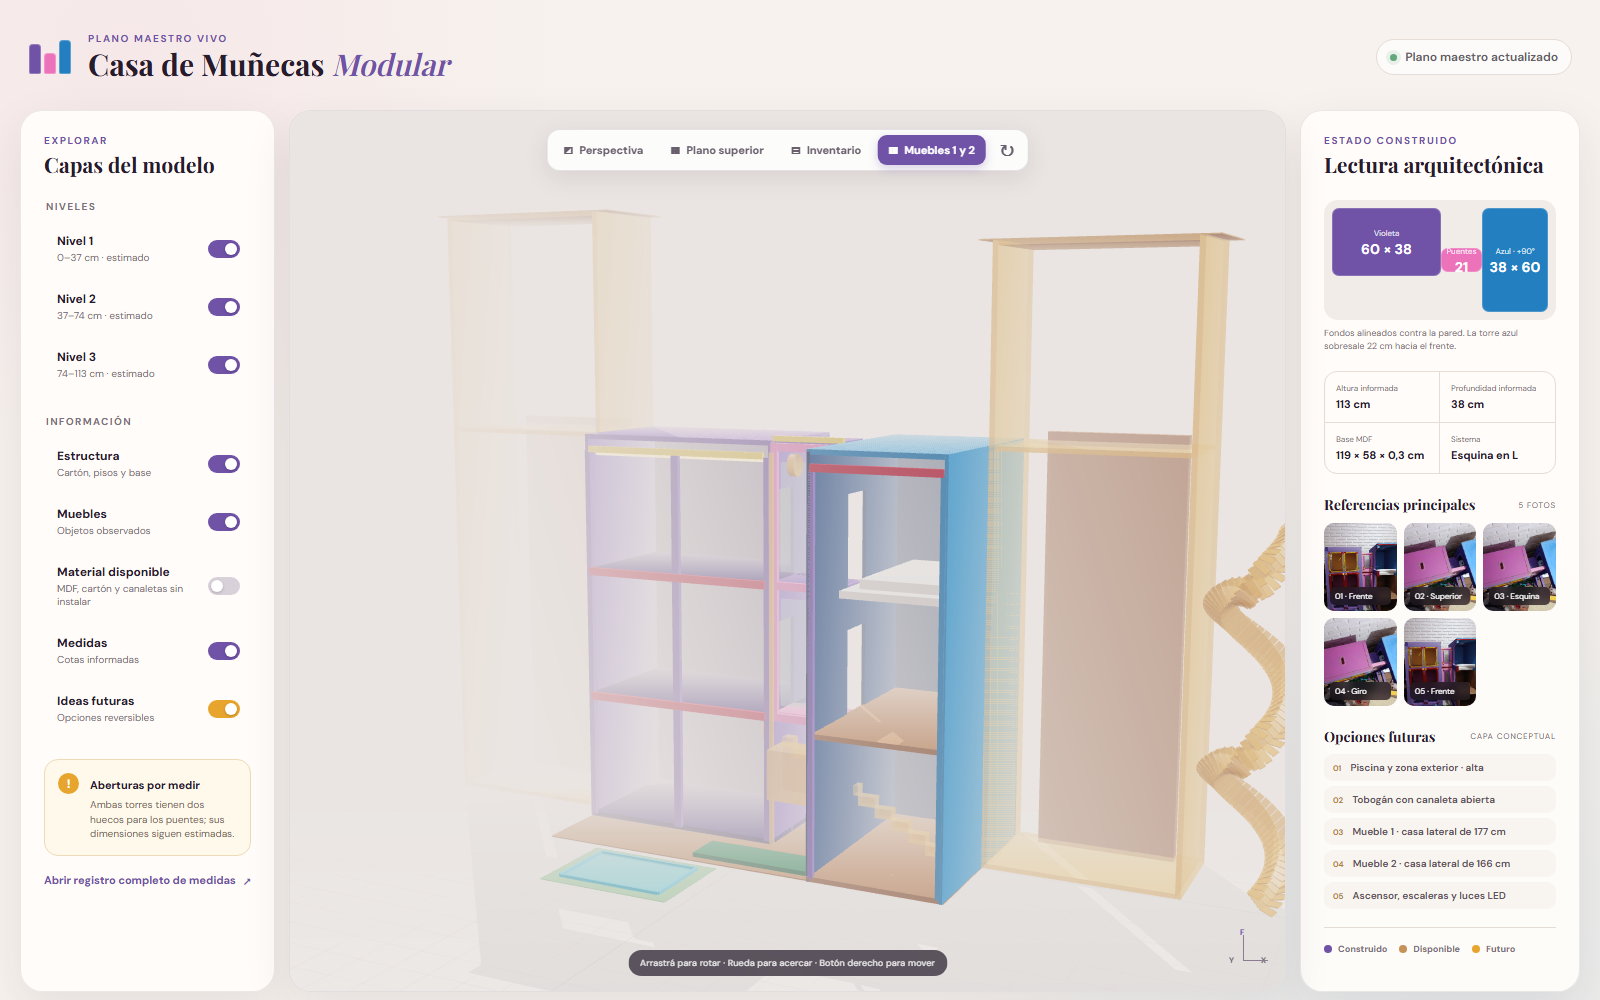
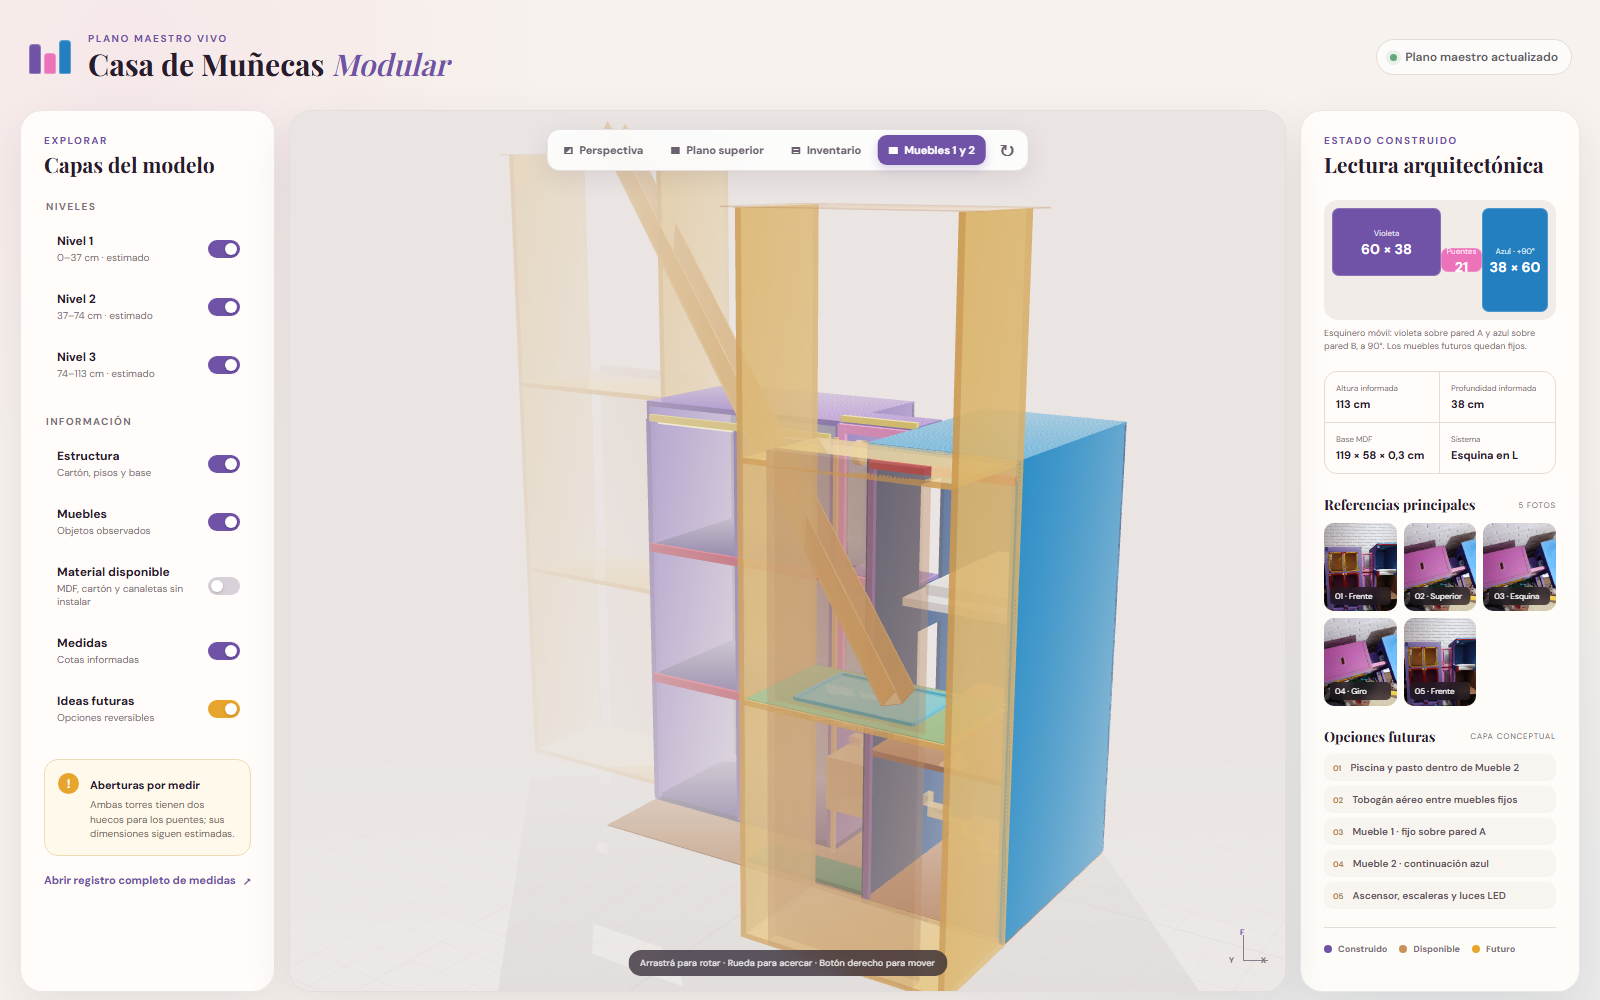
Reorientar muebles fijos alrededor del esquinero móvil

Changed region(s): [[0.3125, 0.155, 0.8125, 0.992], [0.875, 0.744, 0.9375, 0.868], [0.8438, 0.31, 0.9375, 0.372]]

diff --git a/viewer/app.js b/viewer/app.js
@@ -160,6 +160,25 @@ function buildOpenChannel(element, material) {
   return registerComposite(group, element);
 }
 
+function buildOpenChannelBetween(element, material) {
+  const group = new THREE.Group();
+  const thickness = element.profile.displayThickness;
+  const width = element.profile.base;
+  const sideHeight = element.profile.sideHeight;
+  const bottom = new THREE.Mesh(new THREE.BoxGeometry(element.length, thickness, width), material);
+  bottom.position.y = thickness / 2;
+  group.add(bottom);
+  for (const side of [-1, 1]) {
+    const wall = new THREE.Mesh(new THREE.BoxGeometry(element.length, sideHeight, thickness), material);
+    wall.position.set(0, sideHeight / 2, side * (width / 2 - thickness / 2));
+    group.add(wall);
+  }
+  const object = registerComposite(group, element);
+  const direction = new THREE.Vector3(...element.end).sub(new THREE.Vector3(...element.start)).normalize();
+  object.quaternion.setFromUnitVectors(new THREE.Vector3(1, 0, 0), direction);
+  return object;
+}
+
 function buildOpenChannelHelix(element, material) {
   const group = new THREE.Group();
   const segments = 88;
@@ -328,6 +347,7 @@ function populate(data) {
     const material = materials[element.material];
     let object;
     if (element.type === "openChannel") object = buildOpenChannel(element, material);
+    else if (element.type === "openChannelBetween") object = buildOpenChannelBetween(element, material);
     else if (element.type === "openChannelHelix") object = buildOpenChannelHelix(element, material);
     else if (element.type === "stack") object = buildStack(element, material);
     else if (element.type === "poolOutline") object = buildPoolOutline(element, material);

diff --git a/viewer/index.html b/viewer/index.html
@@ -95,7 +95,7 @@
             <div class="plan-module core"><span>Puentes</span><b>21</b></div>
             <div class="plan-module right"><span>Azul · +90°</span><b>38 × 60</b></div>
           </div>
-          <p class="plan-note">Fondos alineados contra la pared. La torre azul sobresale 22 cm hacia el frente.</p>
+          <p class="plan-note">Esquinero móvil: violeta sobre pared A y azul sobre pared B, a 90°. Los muebles futuros quedan fijos.</p>
 
           <dl class="facts">
             <div><dt>Altura informada</dt><dd>113 cm</dd></div>
@@ -118,10 +118,10 @@
           <div class="future-list">
             <div class="section-row"><h3>Opciones futuras</h3><span>Capa conceptual</span></div>
             <ul>
-              <li><span>01</span> Piscina y zona exterior · alta</li>
-              <li><span>02</span> Tobogán con canaleta abierta</li>
-              <li><span>03</span> Mueble 1 · casa lateral de 177 cm</li>
-              <li><span>04</span> Mueble 2 · casa lateral de 166 cm</li>
+              <li><span>01</span> Piscina y pasto dentro de Mueble 2</li>
+              <li><span>02</span> Tobogán aéreo entre muebles fijos</li>
+              <li><span>03</span> Mueble 1 · fijo sobre pared A</li>
+              <li><span>04</span> Mueble 2 · continuación azul</li>
               <li><span>05</span> Ascensor, escaleras y luces LED</li>
             </ul>
           </div>

diff --git a/ideas.md b/ideas.md
@@ -4,20 +4,22 @@ Este archivo conserva todas las ideas del proyecto, incluso las que todavía no 
 
 ## Prioridad alta
 
-### Piscina y zona exterior
+### Piscina y jardín dentro de Mueble 2
 
 - Piscina plástica para muñecas de aproximadamente 30 × 20 cm.
 - Preferencia: comprar una opción accesible antes que fabricarla, si el costo y la escala resultan adecuados.
-- Asociar el pasto artificial disponible como patio o jardín.
-- Mantener el conjunto desmontable y sin pegarlo a las cajas actuales.
-- Pendiente: medir el espacio libre real de la base y cualquier futura extensión exterior.
+- Integrar piscina y pasto artificial sobre un estante reforzado de Mueble 2; no ocupar el piso frente a la casa móvil.
+- Mantener la piscina desmontable para limpieza y proteger el MDF contra humedad.
+- Pendiente: medir el pasto, el peso de la piscina llena y la capacidad del estante antes de construir.
 
-### Tobogán exterior con canaleta abierta
+### Tobogán aéreo entre los dos muebles fijos
 
 - Reutilizar las canaletas PVC de 190 y 60 cm, ambas con perfil abierto: base de 6 cm y laterales de 6 cm.
 - No tratarlas como tubos cerrados.
-- Evaluar recorrido recto, curvo o por tramos, con apoyos independientes.
-- No cortar hasta definir recorrido, radios posibles, altura de salida y sistema desmontable.
+- Propuesta llamativa: la canaleta de 190 cm cruza en diagonal desde el nivel superior de Mueble 1 hasta el nivel de piscina de Mueble 2.
+- Sus únicos apoyos deben estar en los muebles fijos. No puede tocar, perforar ni depender de la casa de cartón móvil.
+- Reservar la canaleta de 60 cm para una entrada, llegada o segundo tramo después de una prueba a escala real.
+- No cortar ni curvar hasta comprobar la distancia real entre muebles, la rigidez del PVC, la pendiente y las protecciones laterales.
 
 ## Desarrollo modular
 
@@ -26,23 +28,22 @@ Este archivo conserva todas las ideas del proyecto, incluso las que todavía no 
 - Ubicación conceptual: lado izquierdo de la torre violeta, compartiendo la alineación posterior.
 - Altura propuesta: 177 cm, mayor que los 113 cm de la casa de cartón, porque aprovecha enteras las dos placas de 30 × 177 × 1,5 cm como laterales.
 - Ancho exterior derivado: 53,3 cm, usando placas de 50,3 cm entre dos laterales de 1,5 cm. Profundidad: 30 cm.
-- Tres placas de 30 × 50,3 × 1,3 cm formarían base, piso a la altura aproximada del techo actual y piso superior.
+- Tres placas de 30 × 50,3 × 1,3 cm formarían base, estante inferior y estante alineado aproximadamente con el techo actual.
 - Una tapa de cartón de 116 × 38 × 3 cm se conservaría entera como respaldo inferior centrado.
 - Una placa fina de 30 × 61 × 0,3 cm se usaría entera como cubierta o marquesina.
-- Programa sugerido: garaje o guardado abajo; habitación vinculada a la casa a 113 cm; terraza, observatorio o salida del tobogán arriba.
-- La canaleta de 190 cm podría ensayarse como bajada exterior desde este sector y la de 60 cm como tramo de entrada o llegada; el recorrido depende del espacio lateral real y de cuánto admitan curvarse.
+- Programa sugerido: garaje o guardado abajo; habitación intermedia; terraza, observatorio o salida del tobogán arriba.
 
 ### Mueble 2 — nueva casa lateral de 166 cm
 
-- Ubicación conceptual: lado derecho de la torre azul, compartiendo la alineación posterior.
+- Ubicación conceptual: continuación frontal de la torre azul sobre la segunda pared de la esquina. Sus aberturas miran hacia las aberturas azules.
 - Altura propuesta: 166 cm, también mayor que la casa actual, usando enteras las dos placas de 30 × 166 × 1,5 cm como laterales.
 - Ancho exterior derivado: 53,3 cm. Profundidad: 30 cm.
-- Las otras tres placas de 30 × 50,3 × 1,3 cm formarían base, piso conectado visualmente con el techo actual y piso superior.
+- Las otras tres placas de 30 × 50,3 × 1,3 cm formarían base, estante para piscina/jardín y estante superior.
 - La segunda tapa de cartón se conservaría entera como respaldo inferior.
 - La segunda placa fina de 30 × 61 × 0,3 cm funcionaría como cubierta o balcón superior.
-- Programa sugerido: zona de piscina y vestuario abajo; habitaciones en el nivel medio; terraza, jardín alto o sala de luces arriba.
+- Programa sugerido: guardado abajo; piscina y jardín artificial sobre el primer estante; habitaciones o sala de luces arriba.
 
-Los dos muebles son parte arquitectónica de la casa, aunque deben sostenerse por sí mismos y no colgar del cartón. Antes de construirlos hay que medir el lugar disponible y definir anclajes antivuelco.
+Los dos muebles son partes fijas de la casa arquitectónica y se anclan a pared o piso. La estructura de cartón permanece intacta y móvil: debe poder retirarse sin desmontar muebles, piscina ni tobogán.
 
 ### Tapas originales de cartón
 

diff --git a/docs/decisiones.md b/docs/decisiones.md
@@ -116,3 +116,27 @@
 - **Decisión:** Reservar el nivel de 113 cm como vínculo arquitectónico con la casa actual. Proponer garaje/guardado y habitación para Mueble 1; piscina/vestuario y habitaciones para Mueble 2; usar los niveles superiores para terraza, jardín alto, observatorio o salida de tobogán.
 - **Motivo:** Crea continuidad con la casa existente y aprovecha la nueva altura sin modificarla.
 - **Consecuencia:** Los usos pueden cambiar; las posiciones de pisos sí responden al material disponible y deben validarse antes de cortar o perforar.
+
+## D-016 — Dos paredes perpendiculares y cartón móvil
+
+- **Fecha:** 2026-07-23
+- **Estado:** Confirmada por el usuario
+- **Decisión:** Interpretar la implantación como esquina de habitación: violeta sobre pared A y lateral exterior azul sobre pared B a 90°. La estructura de cartón queda intacta y debe poder retirarse.
+- **Motivo:** El conjunto de cartón es un esquinero móvil, no una estructura para recibir cargas permanentes.
+- **Consecuencia:** Los muebles se fijan a pared o piso y requieren una junta de encuentro desmontable con el cartón.
+
+## D-017 — Mueble 2 continúa la torre azul
+
+- **Fecha:** 2026-07-23
+- **Estado:** Conceptual, orientación confirmada
+- **Decisión:** Mueble 2 deja de ser lateral y se coloca delante de la torre azul, siguiendo la pared B. Sus aberturas miran hacia las aberturas azules.
+- **Motivo:** Debe leerse como continuación de la casa de muñecas y no como un volumen paralelo agregado.
+- **Consecuencia:** Mueble 2 se centra provisionalmente en X = 33,35 cm, ocupa Z = 30–60 cm y alinea su lateral derecho con la pared B. La holgura final debe medirse.
+
+## D-018 — Estantes habitables, piscina elevada y tobogán independiente
+
+- **Fecha:** 2026-07-23
+- **Estado:** Propuesta para verificar
+- **Decisión:** Usar las tres placas de 50,3 cm de cada mueble como base y dos estantes. Colocar piscina y pasto en el primer estante de Mueble 2. Probar la canaleta de 190 cm como tobogán aéreo entre ambos muebles fijos.
+- **Motivo:** Libera el piso, crea más habitaciones y convierte el tobogán en una pieza protagonista.
+- **Consecuencia:** Hay que calcular carga y protección contra agua del estante, medir el recorrido real y diseñar apoyos solo en MDF. La canaleta de 60 cm queda reservada para entrada o llegada.

diff --git a/docs/proyecto.md b/docs/proyecto.md
@@ -10,7 +10,7 @@ Primera digitalización registrada el 18 de julio de 2026 a partir de dos fotogr
 
 - Torre izquierda violeta: tres niveles, dos vanos por nivel, fachada decorada y cerramientos laterales/superior.
 - Torre derecha azul: caja del mismo tamaño girada 90° en planta; el frente grande está abierto hacia el frente común de la casa y la cara de unión con el núcleo está cerrada salvo por aberturas pequeñas para los puentes.
-- Alineación: las caras posteriores de ambas cajas coinciden contra la pared. La torre azul, con 60 cm sobre el eje de profundidad, sobresale 22 cm respecto del frente violeta de 38 cm.
+- Implantación en la habitación: el conjunto de cartón ocupa una esquina. La torre violeta da a la pared A y el lateral exterior azul da a la pared B, perpendicular. La geometría de cartón no cambia.
 - La pared violeta que recibe los puentes está cerrada y posee dos aberturas pequeñas equivalentes a las de la pared azul.
 - Núcleo central rosado: bastidor frontal y puentes estrechos que salvan los 21 cm entre las cajas.
 - Base de MDF con una zona de jardín decorativo al frente.
@@ -19,6 +19,8 @@ Primera digitalización registrada el 18 de julio de 2026 a partir de dos fotogr
 El modelo 3D inicial representa esta organización sin rediseñarla. Las ampliaciones opcionales están separadas en una capa futura y se muestran apagadas por defecto.
 
 Desde el 22 de julio de 2026 el visor distingue tres estados: estructura actual, materiales disponibles todavía sin instalar e ideas futuras conceptuales. La base construida se registra con 3 mm de espesor. Ningún material inventariado se considera agregado a la casa.
+
+La estructura de cartón será móvil y podrá retirarse de la esquina. Mueble 1 y Mueble 2 serán instalaciones fijas, autoportantes y ancladas sin transferir cargas al cartón.
 
 ## Cronología
 
@@ -46,6 +48,15 @@ Desde el 22 de julio de 2026 el visor distingue tres estados: estructura actual,
 - El visor separa estructura construida, material disponible y ampliaciones futuras.
 - Se definieron Mueble 1 y Mueble 2 como futuras casas laterales de 177 y 166 cm, utilizando las placas largas enteras y repartiendo las seis placas de 50,3 cm.
 
+### 2026-07-23 — Esquina fija y casa móvil
+
+- Se confirmó que la parte violeta da a una pared y la azul a la pared perpendicular.
+- Mueble 1 conserva su posición junto a la torre violeta.
+- Mueble 2 continúa hacia adelante desde la torre azul; sus vanos quedan enfrentados con los vanos azules.
+- Ambos muebles incorporan estantes. Piscina y pasto pasan al primer estante de Mueble 2.
+- Se reemplazó el tobogán helicoidal por una propuesta aérea con la canaleta abierta de 190 cm entre los dos muebles fijos.
+- El cartón sigue intacto y móvil; muebles, piscina y tobogán no dependen de él.
+
 ## Ideas futuras
 
 - Ascensor manual con polea y cuerda, preferentemente adosado al núcleo o lateral derecho.
@@ -53,7 +64,7 @@ Desde el 22 de julio de 2026 el visor distingue tres estados: estructura actual,
 - Escaleras internas compactas entre niveles.
 - Iluminación LED cálida, de bajo voltaje, con canaletas registrables.
 - Refuerzo progresivo con MDF fino o listones donde el cartón reciba cargas repetidas.
-- Piscina plástica de aproximadamente 30 × 20 cm con patio de pasto artificial, prioridad alta.
+- Piscina plástica de aproximadamente 30 × 20 cm con pasto artificial dentro de Mueble 2, prioridad alta.
 - Mueble 1 de 177 cm y Mueble 2 de 166 cm: forman parte de la casa ampliada, aunque tienen estructura y anclaje independientes del cartón.
 - Terrazas, balcones, habitaciones, garaje, jardines y módulos desmontables.
 

diff --git a/docs/medidas.md b/docs/medidas.md
@@ -90,6 +90,16 @@ Las entradas nuevas no eliminan las anteriores. M-018 reemplaza el valor histór
 | C-002 | Mueble 1 futuro | 177 alto × 53,3 ancho × 30 profundidad | Propuesta derivada del stock | Placas disponibles | Altura usa placas de 177 enteras; ancho = 50,3 + 1,5 + 1,5 |
 | C-003 | Mueble 2 futuro | 166 alto × 53,3 ancho × 30 profundidad | Propuesta derivada del stock | Placas disponibles | Altura usa placas de 166 enteras; ancho = 50,3 + 1,5 + 1,5 |
 
+## Implantación en esquina — 2026-07-23
+
+| ID | Elemento | Medida o condición | Estado | Fuente | Nota |
+|---|---|---|---|---|---|
+| M-029 | Paredes de la habitación | 90° entre pared A y pared B | Confirmada por el usuario | Mensaje 2026-07-23 | Violeta da a pared A; azul da a pared B |
+| C-004 | Mueble 2, implantación | Continúa desde el frente azul, con vanos enfrentados | Orientación confirmada; holguras conceptuales | Mensaje 2026-07-23 | Posición exacta por medir en la habitación |
+| C-005 | Estantes Mueble 1 | Base, estante a 58 cm y estante a 113 cm | Propuesta con tres placas disponibles | Modelo 1.6.0 | Alturas sujetas a programa y uniones |
+| C-006 | Estantes Mueble 2 | Base, estante a 58 cm y estante a 113 cm | Propuesta con tres placas disponibles | Modelo 1.6.0 | Piscina conceptual sobre primer estante |
+| C-007 | Tobogán entre muebles | Canaleta real de 190 cm; extremos conceptuales separados 173,8 cm | Propuesta, no verificada físicamente | Modelo 1.6.0 | Excedente permite entrada y ajuste; medir antes de cortar |
+
 ## Medidas que siguen faltando
 
 - Espesor real del PVC y si los 6 cm corresponden a medida interior o exterior.
@@ -97,5 +107,7 @@ Las entradas nuevas no eliminan las anteriores. M-018 reemplaza el valor histór
 - Medidas de cada mueble MDF armado.
 - Largo y diámetro de la cuerda; longitud, tensión y potencia de las luces LED.
 - Medidas, material y espesor de las otras tablas grandes.
-- Espacio disponible para piscina y módulos laterales fuera de la base actual.
+- Peso de la piscina llena y carga admisible del estante de Mueble 2.
 - Posición final, separación respecto de la casa y tolerancias de montaje de Mueble 1 y Mueble 2.
+- Distancia tridimensional real entre los apoyos del tobogán y rigidez de la canaleta de 190 cm.
+- Holgura necesaria para retirar la casa de cartón sin rozar los muebles fijos.

diff --git a/docs/tareas.md b/docs/tareas.md
@@ -16,14 +16,17 @@
 - [ ] Evaluar un tobogán exterior desmontable.
 - [ ] Medir el espesor real del PVC y confirmar si los 6 cm son interiores o exteriores.
 - [ ] Medir y fotografiar el pasto artificial restante, los muebles MDF armados y las tablas grandes.
-- [ ] Medir el espacio exterior disponible para piscina y módulos laterales.
+- [ ] Medir la posición real de las dos paredes de la esquina y los espacios ocupados por cada mueble fijo.
 - [ ] Buscar una piscina plástica accesible de aproximadamente 30 × 20 cm antes de decidir fabricación.
 - [ ] Diseñar apoyos desmontables para el tobogán sin cortar las canaletas.
 - [ ] Evaluar usos enteros para las dos tapas de cartón de 116 × 38 cm.
 - [ ] Medir el espacio lateral izquierdo necesario para Mueble 1: 53,3 × 30 cm propuestos.
-- [ ] Medir el espacio lateral derecho necesario para Mueble 2: 53,3 × 30 cm propuestos.
+- [ ] Medir el tramo frente a la torre azul para Mueble 2: 53,3 × 30 cm propuestos, con aberturas enfrentadas.
 - [ ] Definir respaldo rígido y anclaje antivuelco para ambos muebles altos; no usar las cajas como soporte.
 - [ ] Confirmar si se aprueba la asignación sin cortes: placas de 177 cm para Mueble 1 y placas de 166 cm para Mueble 2.
+- [ ] Definir la holgura y el sistema de encuentro para retirar la casa de cartón sin mover los muebles.
+- [ ] Calcular el peso de la piscina llena y proteger contra humedad el estante de Mueble 2.
+- [ ] Probar a escala real el recorrido de 190 cm entre ambos muebles antes de cortar o curvar PVC.
 
 ## En progreso
 
@@ -48,3 +51,6 @@
 - [x] Corregir el espesor de la base a 3 mm y el tobogán a perfil abierto.
 - [x] Incorporar Mueble 1 y Mueble 2 como casas laterales más altas en la capa futura.
 - [x] Preparar una asignación conceptual de las placas MDF sin cortar las piezas principales.
+- [x] Reorientar Mueble 2 como continuación de la torre azul con vanos enfrentados.
+- [x] Trasladar piscina y pasto al estante de Mueble 2.
+- [x] Agregar dos niveles de estantes a cada mueble y un tobogán aéreo entre estructuras fijas.

diff --git a/README.md b/README.md
@@ -35,13 +35,14 @@ Controles disponibles:
 
 - Torre izquierda violeta, cerrada por laterales y fondo, con tres niveles y fachada decorada.
 - Torre derecha azul, girada 90° en planta respecto de la violeta: frente grande abierto hacia el frente común de la casa y pared de conexión cerrada salvo por pequeñas aberturas para los puentes.
-- Ambas torres se alinean por la cara posterior que apoya contra la pared; por eso la torre azul sobresale aproximadamente 22 cm hacia el frente.
+- El conjunto de cartón ocupa una esquina: la torre violeta da a una pared y el lateral exterior azul a la pared perpendicular. La geometría construida no se modifica.
 - La pared lateral derecha de la torre violeta también permanece cerrada salvo por dos aberturas pequeñas para los puentes.
 - Núcleo central rosado unido mediante puentes de cartón.
 - Base de MDF de 119 × 58 × 0,3 cm.
-- Piscina, módulos laterales, ascensor manual, tobogán exterior, escaleras y luces LED registrados como ideas futuras opcionales, apagadas por defecto.
-- Mueble 1 de 177 cm y Mueble 2 de 166 cm modelados como futuras casas laterales, usando las placas largas enteras.
-- El tobogán se representa mediante canaletas abiertas en U, no como tubo cerrado.
+- Piscina, ascensor manual, escaleras y luces LED registrados como ideas futuras opcionales, apagadas por defecto.
+- Mueble 1 de 177 cm queda sobre la pared violeta. Mueble 2 de 166 cm continúa la torre azul sobre la segunda pared, con sus aberturas enfrentadas.
+- Los muebles son fijos; la casa de cartón permanece intacta y móvil.
+- El tobogán protagonista cruza entre los dos muebles fijos mediante la canaleta abierta de 190 cm; nunca se apoya en el cartón.
 
 ## Precisión dimensional
 

diff --git a/docs/materiales.md b/docs/materiales.md
@@ -56,8 +56,10 @@ Esta asignación usa todas las piezas principales sin cortar y todavía no autor
 
 | Destino | Piezas asignadas | Resultado propuesto |
 |---|---|---|
-| Mueble 1 | 2 placas de 177 cm; 3 placas de 50,3 cm; 1 tapa de cartón; 1 MDF fino de 61 cm | Casa lateral de 177 × 53,3 × 30 cm aprox. |
-| Mueble 2 | 2 placas de 166 cm; 3 placas de 50,3 cm; 1 tapa de cartón; 1 MDF fino de 61 cm | Casa lateral de 166 × 53,3 × 30 cm aprox. |
+| Mueble 1 | 2 placas de 177 cm; 3 placas de 50,3 cm; 1 tapa de cartón; 1 MDF fino de 61 cm | Casa fija sobre pared A, con base y dos estantes |
+| Mueble 2 | 2 placas de 166 cm; 3 placas de 50,3 cm; 1 tapa de cartón; 1 MDF fino de 61 cm | Continuación fija de la torre azul sobre pared B, con base y dos estantes |
 | Reserva | MDF fino de 15 × 44 cm, canaletas, cuerda, LED, cartón adicional y tablas sin medir | Panel de control, barandas, iluminación, tobogán y refuerzos por definir |
 
 Los laterales largos definen alturas superiores a la casa actual. Los 53,3 cm surgen de 50,3 cm de luz más dos espesores laterales de 1,5 cm. Ambos muebles requieren respaldo o arriostramiento y anclaje antivuelco independientes del cartón.
+
+La piscina exige una bandeja impermeable o protección equivalente sobre el estante. La canaleta de 190 cm se reserva para el tramo protagonista entre muebles; la de 60 cm queda sin cortar hasta resolver entrada y llegada.

diff --git a/prompts/modelo-maestro.md b/prompts/modelo-maestro.md
@@ -17,3 +17,6 @@ En cada actualización:
 11. Separar siempre los estados `built`, `available` y `future` en el JSON y el visor.
 12. Modelar las canaletas del tobogán como perfiles U abiertos; no inventar espesor ni radio de curvatura.
 13. Preservar enteras las tapas originales de cartón salvo decisión explícita posterior.
+14. Tratar la casa de cartón como un esquinero móvil: violeta sobre pared A y azul sobre pared B perpendicular.
+15. Los muebles MDF son fijos y no pueden transferir cargas, fijaciones ni mecanismos al cartón.
+16. Mueble 2 continúa la torre azul y sus aberturas deben mirar hacia las aberturas azules.

diff --git a/assets/renders/README.md b/assets/renders/README.md
@@ -6,4 +6,4 @@
 | `modelo-3d-frente.png` | Captura verificada del visor | Vista frontal en perspectiva del modelo inicial |
 | `modelo-3d-superior.png` | Captura verificada del visor | Vista superior tipo plano del modelo inicial |
 | `modelo-3d-materiales.png` | Captura del visor | Inventario medido en una capa independiente |
-| `modelo-3d-futuro.png` | Captura del visor | Mueble 1 de 177 cm, Mueble 2 de 166 cm y relación con la casa actual |
+| `modelo-3d-futuro.png` | Captura del visor | Muebles fijos, cartón móvil, piscina elevada y tobogán aéreo |